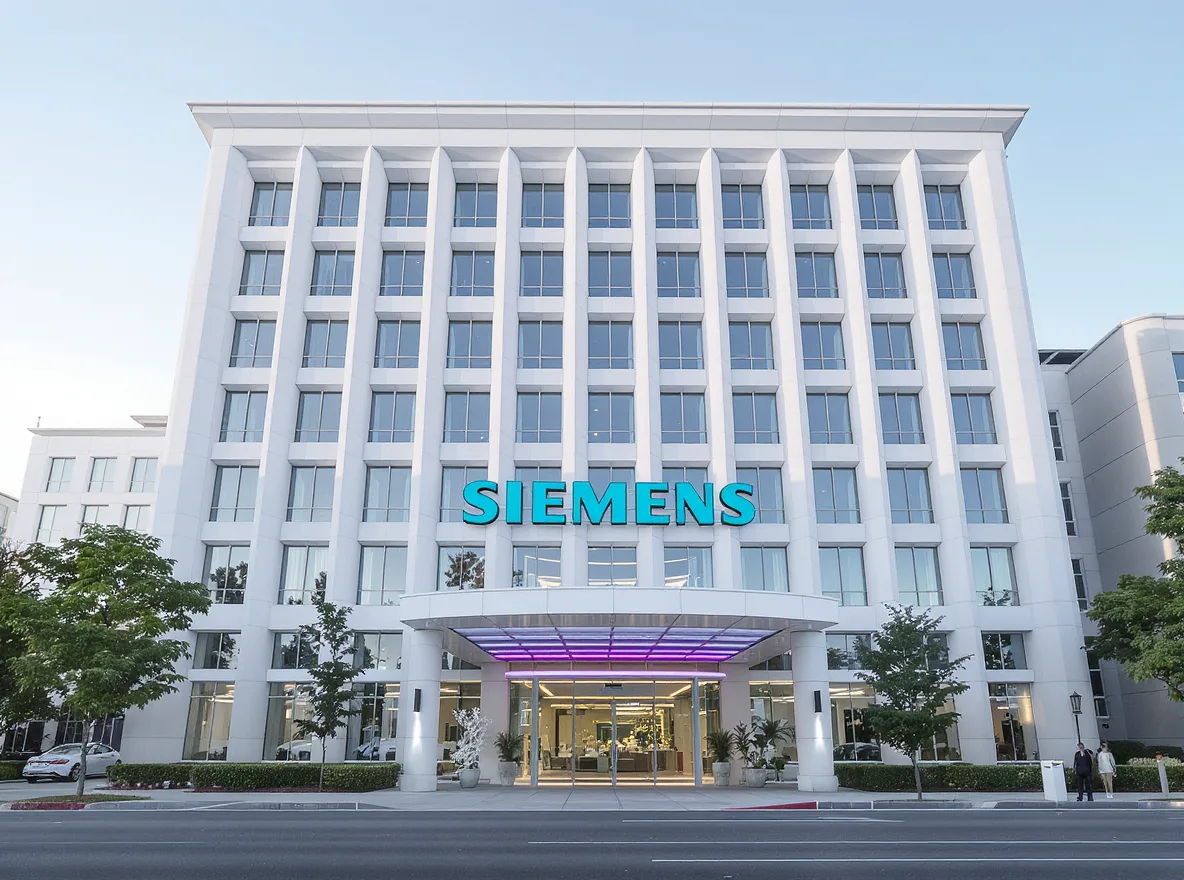
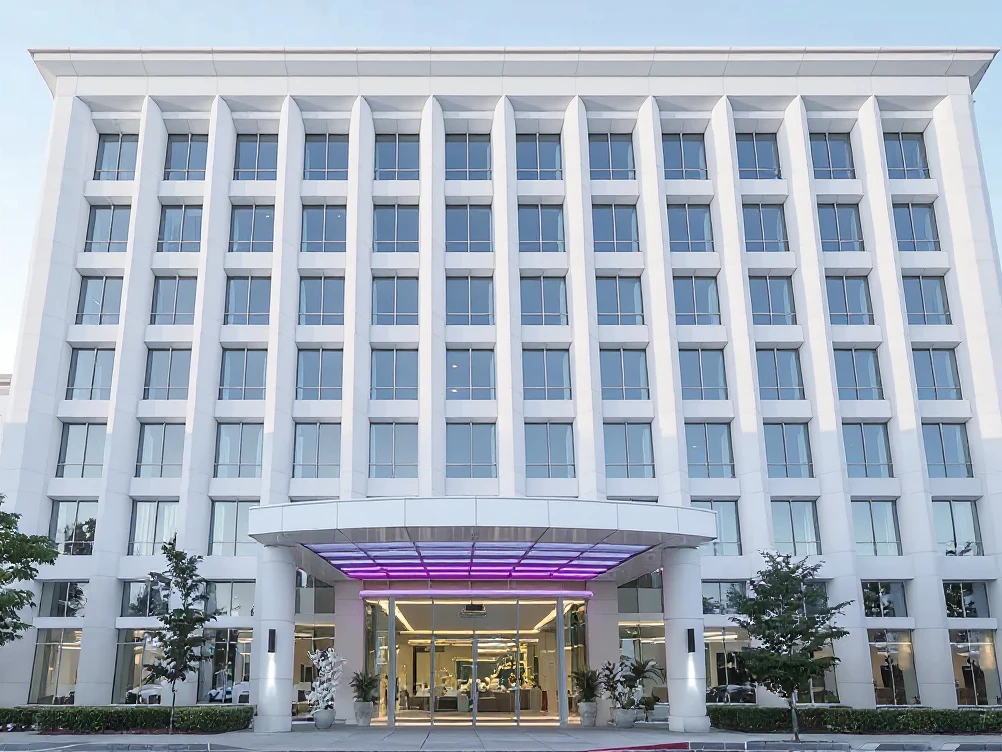
Corrige marcas de terceros y texto no deseado en biblioteca de imágenes (Sprint 1 #2)
Causa raíz identificada: el prompt base del Style Lock citaba "Siemens, ABB,
Schneider Electric" como referencia de calidad, y el modelo lo copiaba
literalmente como señalética en las fachadas. Se corrige en la fuente
(docs/design/image-style-lock.md) y se agrega política permanente de
límite de 3 intentos de regeneración antes de pasar a postproducción.

Imágenes corregidas por edición post-generación (no regeneradas desde cero):
- sector-hotel: eliminado logo "SIEMENS" real
- sector-clinica: eliminado texto "Ceno Private Clinic" + logo cruz
- sector-hospital: eliminado texto "Schneiteder Hospital" + logo cruz
- sector-restaurante: eliminado texto "RESTAURANT"
- sector-oficina, sector-industria, sector-retail: tenían el mismo problema
  pese a estar marcadas como limpias en el reporte inicial (incluía logo
  "ABB" real en sector-retail)
- sector-logistico: logo pequeño no identificado

nosotros-vehiculo (logo Toyota real + emblema HILUX) queda sin resolver:
6 intentos fallidos (edición y regeneración) con error interno del
servidor, no rechazo de contenido. Documentado en el manifest para
seguimiento.

diff --git a/docs/design/image-style-lock.md b/docs/design/image-style-lock.md
@@ -18,10 +18,18 @@ decisiones de diseño en curso (identidad visual, logo, tratamiento
 fotográfico). Al completar toda la biblioteca se hace **una única pasada de
 consistencia v2 final**, regenerando solo lo que desentone.
 
-## 1. Base fotográfica (sin cambios desde v1)
+## 1. Base fotográfica (actualizado v2.2 — ver nota de causa raíz)
 
-Fotografía hiperrealista, calidad de producción corporativa profesional
-(nivel Siemens/ABB/Schneider Electric). Iluminación natural blanca uniforme,
+> **Nota de causa raíz (2026-07-22):** la versión original de esta sección
+> describía la calidad como "nivel Siemens/ABB/Schneider Electric". Esa frase
+> era la causa de que el modelo insertara esos nombres (u otro texto de
+> rótulo) como señalética en fachadas — el modelo interpretaba la referencia
+> de marca como parte literal de la escena a generar. Se reemplaza por una
+> descripción de calidad sin nombres de marca. **No reintroducir nombres de
+> empresas reales en ningún prompt de este documento.**
+
+Fotografía hiperrealista, calidad de producción corporativa profesional de
+primer nivel (grado editorial/publicitario industrial). Iluminación natural blanca uniforme,
 contraste medio. Color grading frío y consistente: azules ligeramente fríos,
 blancos limpios, negros profundos, alta nitidez. Arquitectura moderna,
 instalaciones impecables. Composición 16:9 cinematográfica por defecto, líneas
@@ -54,6 +62,30 @@ para tapar el logo.
 Excepción acotada: en artículos técnicos de blog donde la marca del equipo
 es relevante para el contenido, puede mantenerse. Nunca en imágenes
 institucionales o de marketing.
+
+## 2ter. Política de texto no deseado en fachadas — límite de 3 intentos (v2.2)
+
+Los modelos de generación de imágenes tienen un sesgo fuerte a colocar
+señalética/texto en accesos de edificios (hoteles, clínicas, hospitales,
+restaurantes), incluso con instrucciones explícitas de "sin texto" en el
+prompt y el negative prompt.
+
+**Regla:** si una imagen de fachada contiene texto generado por IA que no
+puede eliminarse tras **3 intentos de regeneración**, se detiene la
+regeneración — ya no es un problema de prompt, es una limitación del
+modelo. La resolución pasa a ser una de estas dos, no más intentos de
+generación:
+
+1. **Postproducción (preferida):** editar la imagen ya generada (edición
+   sobre imagen existente, no regeneración desde cero) para eliminar el
+   texto del letrero, dejando la arquitectura intacta y la fachada limpia.
+   Nunca agregar el logo de GSU en el lugar del texto eliminado.
+2. **Encuadre alternativo:** sustituir por una vista que excluya la zona de
+   señalética (ej. ángulo lateral, detalle de fachada, sin el área de
+   acceso/entrada).
+
+No se invierten más créditos intentando forzar al modelo a eliminar el
+texto más allá del tercer intento.
 
 ## 3. Vehículos (v2)
 
